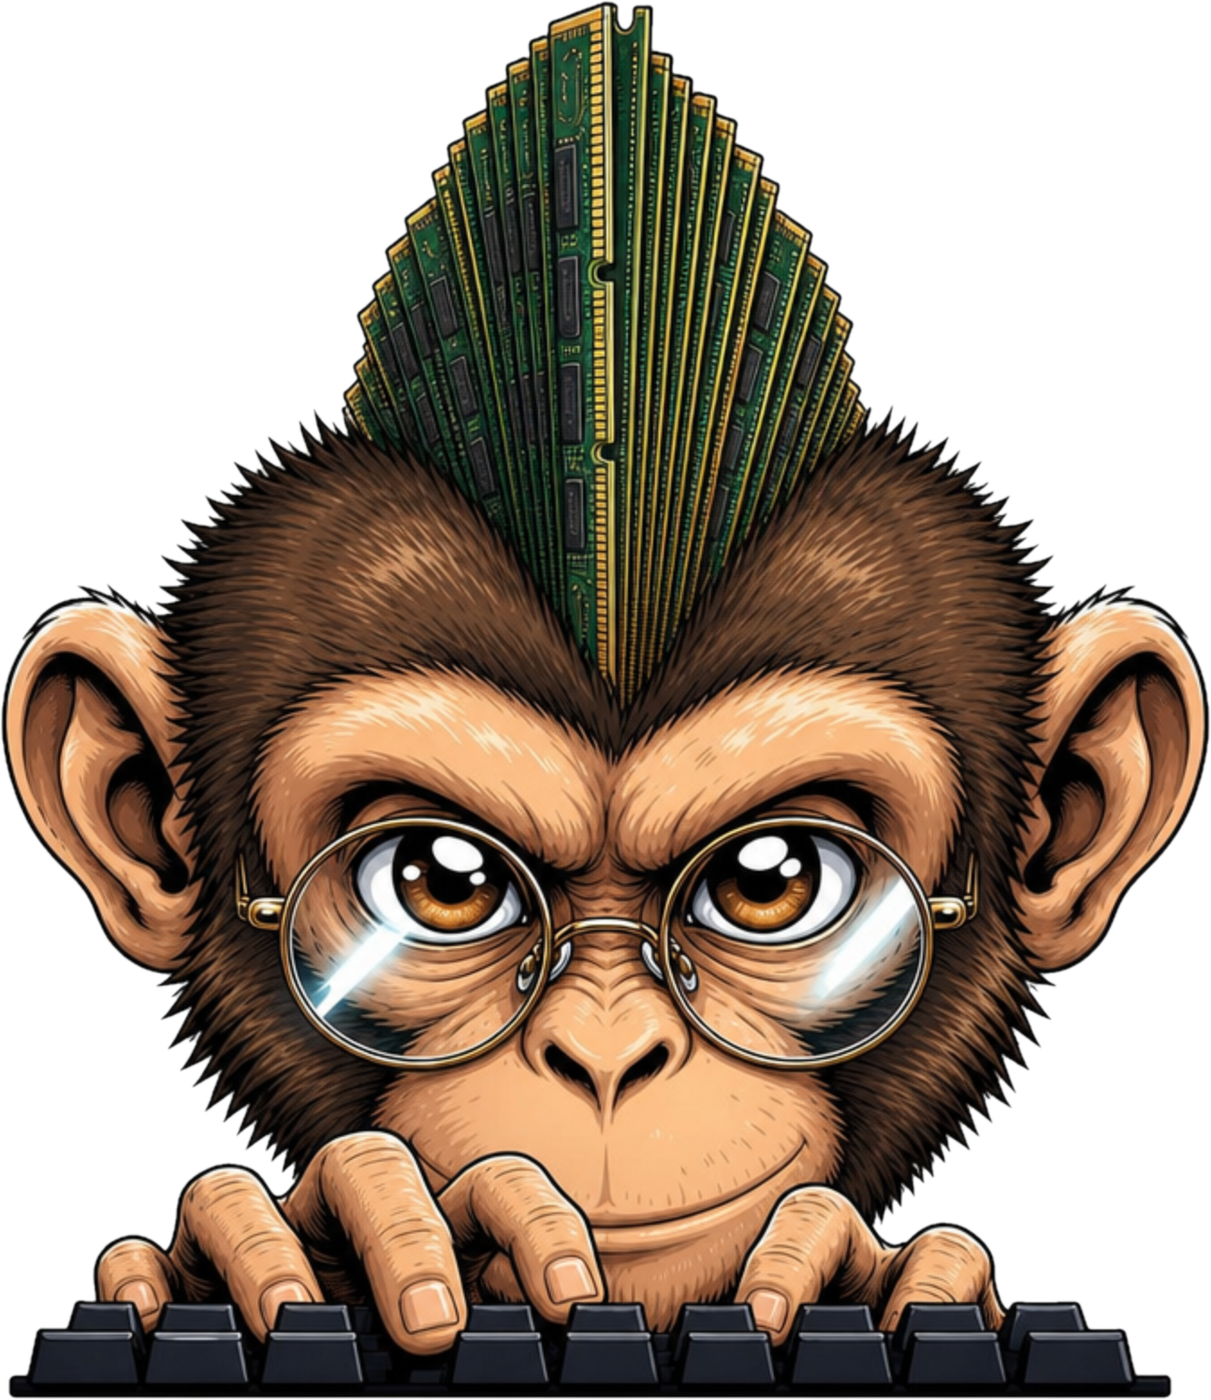
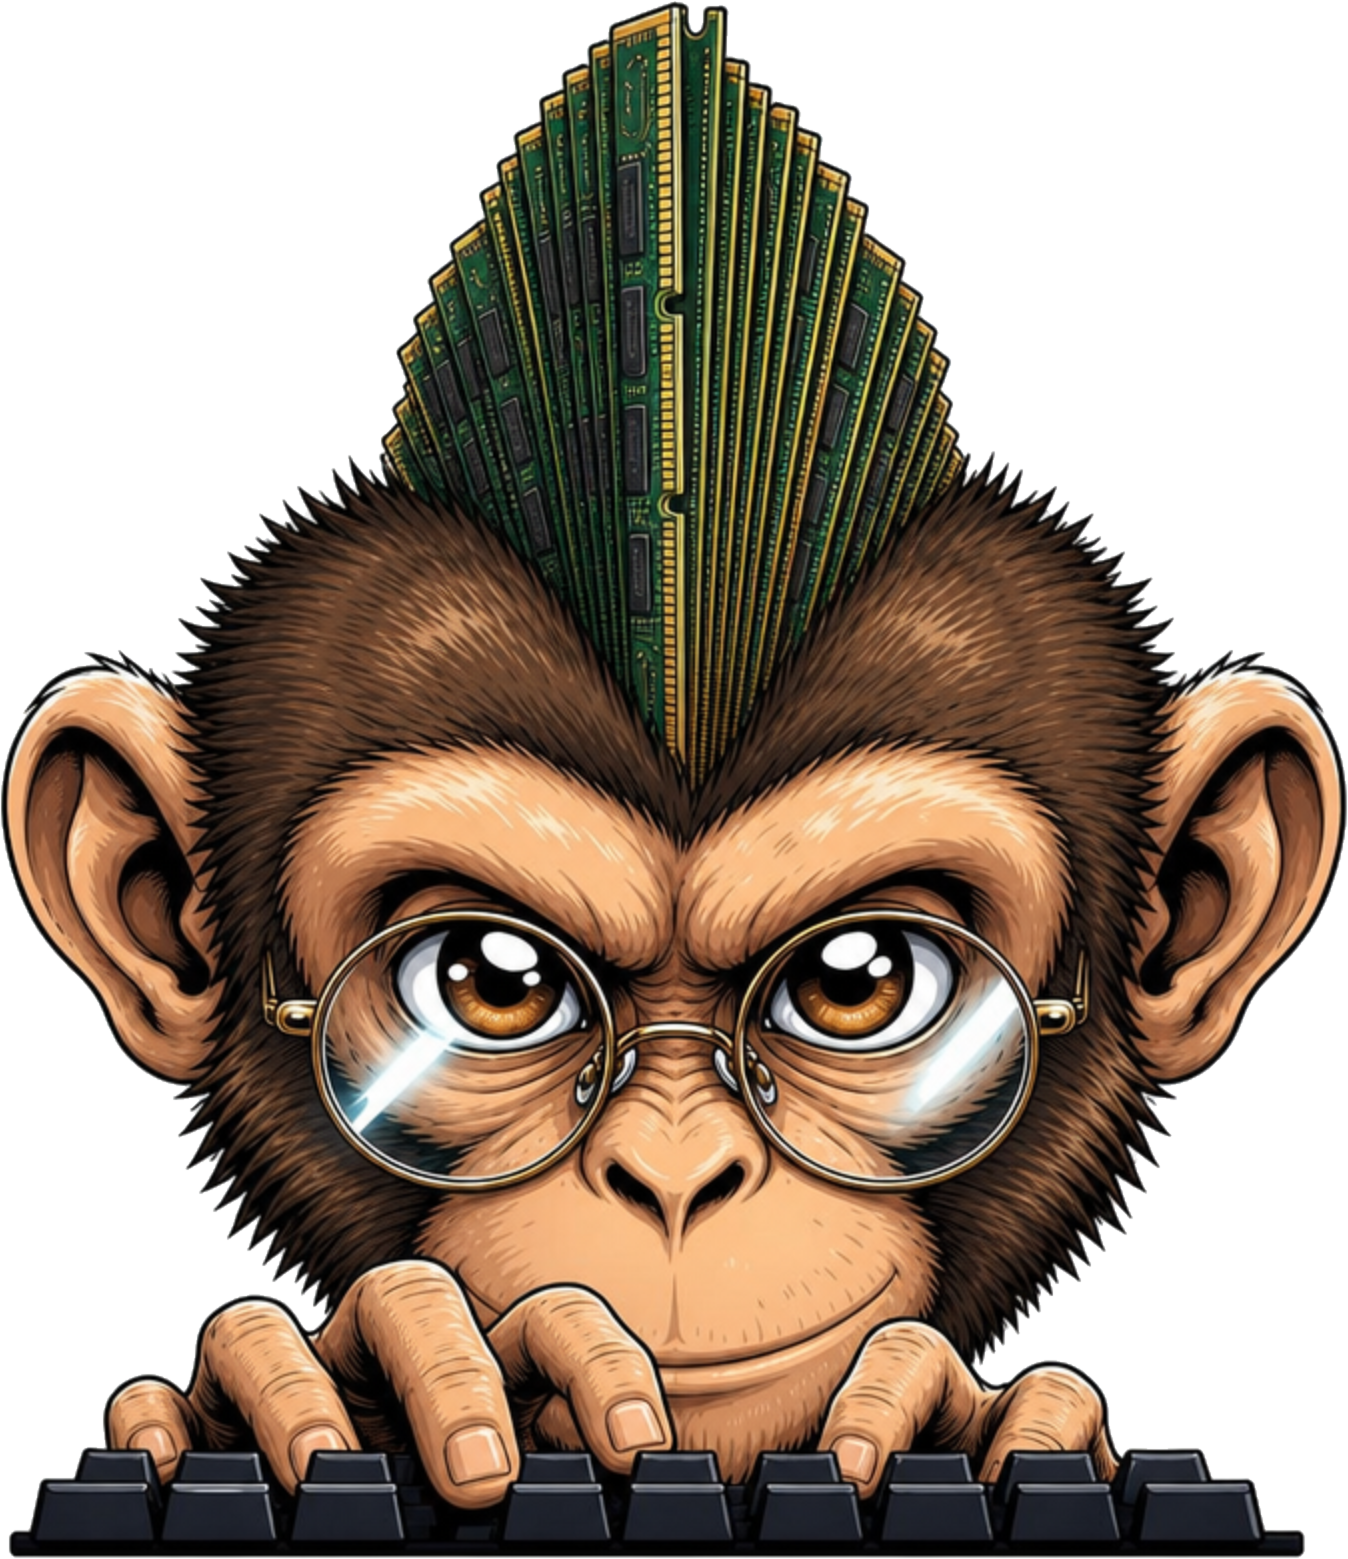
added contact info
added contact info and company owners

diff --git a/index.html b/index.html
@@ -84,6 +84,25 @@
       opacity: 0.95;
       text-shadow: 0 0 8px rgba(57, 255, 20, 0.7), 0 2px 6px #000;
     }
+    /* contact link, bottom-left */
+    .contact {
+      position: fixed;
+      left: 20px;
+      bottom: 16px;
+      z-index: 3;
+      font-size: clamp(0.8rem, 2vw, 1rem);
+      color: var(--neon);
+      text-shadow: 0 0 8px rgba(57, 255, 20, 0.7), 0 2px 6px #000;
+    }
+    .contact .owners { margin-bottom: 0.35rem; opacity: 0.85; }
+    .contact a {
+      color: var(--neon);
+      text-decoration: none;
+      border-bottom: 1px dashed rgba(57, 255, 20, 0.6);
+    }
+    .contact a:hover, .contact a:focus {
+      text-shadow: 0 0 6px var(--neon), 0 0 16px var(--neon);
+    }
     @keyframes blink { 50% { opacity: 0; } }
     @media (prefers-reduced-motion: reduce) {
       h1 .cursor { animation: none; }
@@ -91,8 +110,12 @@
   </style>
 </head>
 <body>
-  <div class="bg" aria-hidden="true"><img src="monkey-bg.png" alt=""></div>
+  <div class="bg" aria-hidden="true"><img src="monkey-bg.png?v=2" alt=""></div>
   <h1>&gt; devmonkee<span class="cursor"></span></h1>
   <p>Local delivery centers in Bulgaria for U.S. MSPs.</p>
+  <div class="contact">
+    <div class="owners">Owners: Yuriy Holevich &amp; Georgi Rangelov</div>
+    <div>Contact us at <a href="mailto:info@devmonkee.com">info@devmonkee.com</a></div>
+  </div>
 </body>
 </html>
